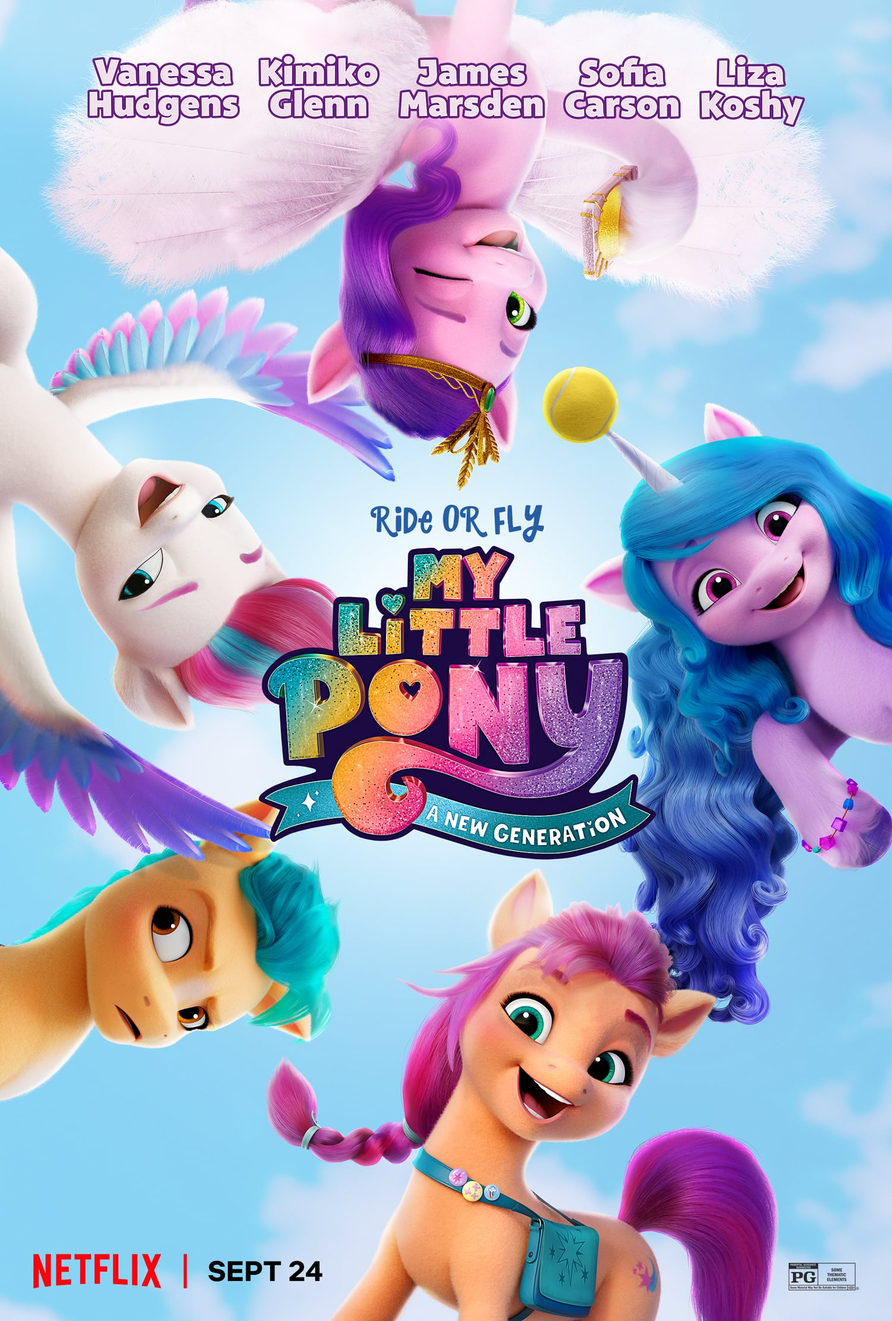
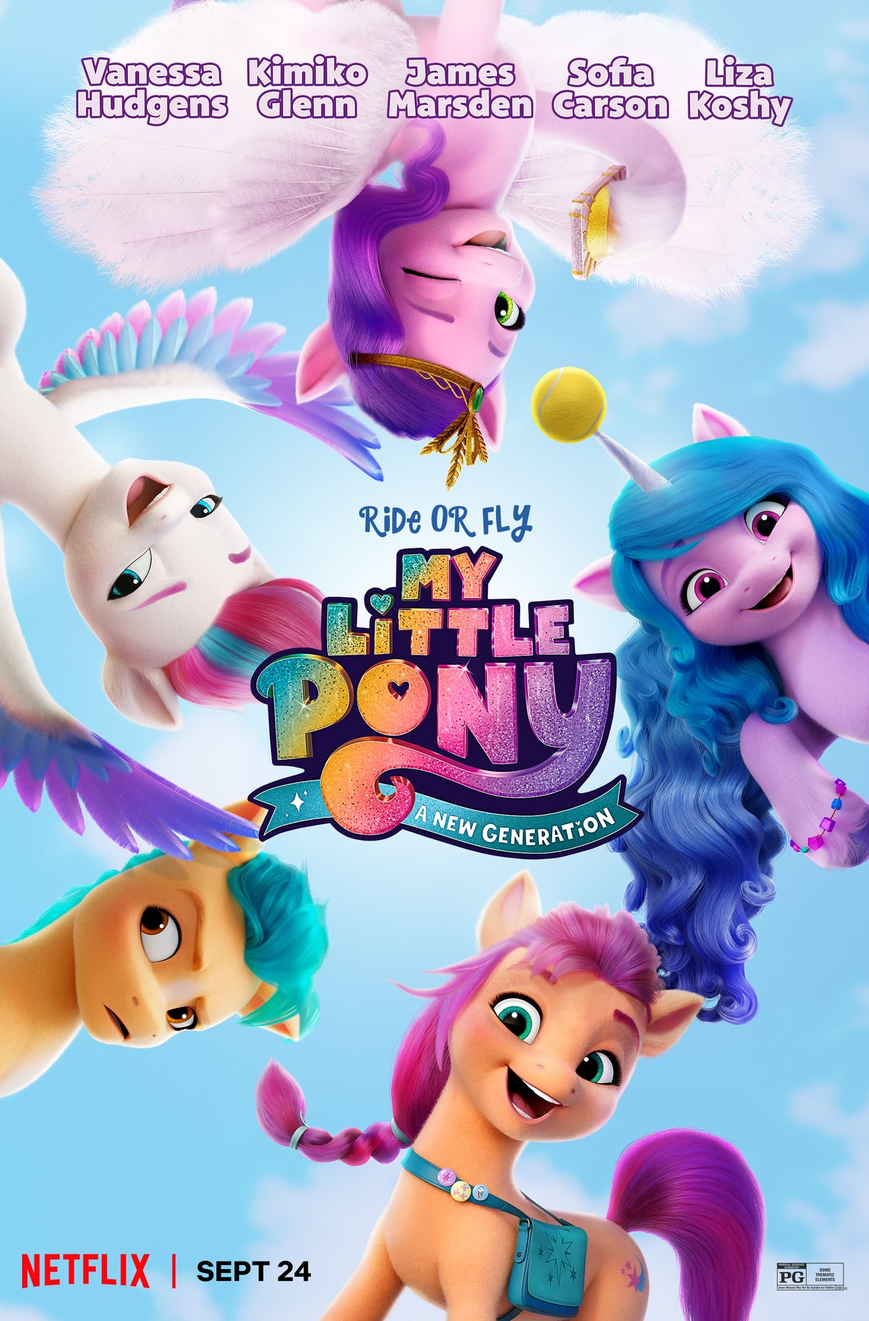
Resize film images

diff --git a/index.html b/index.html
@@ -118,7 +118,7 @@ http://www.tooplate.com/view/2076-zentro
 				</div>
 				<div class="col-sm-3 col-xs-6 wow fadeInUp" data-wow-delay="0.2s">
 					<div class="box">
-						<div class="image-responsive"><img src="images/MyLittlePony32.jpg" alt="gallery img"></div>
+						<div class="image-responsive"><img src="images/MyLittlePonyVer2.jpg" alt="gallery img"></div>
 					</div>
 				</div>
 				<div class="col-sm-3 col-xs-6 wow fadeInUp" data-wow-delay="0.2s">
